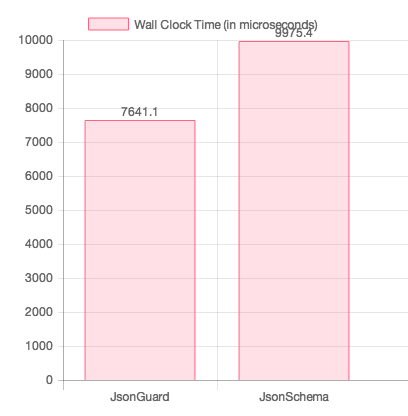
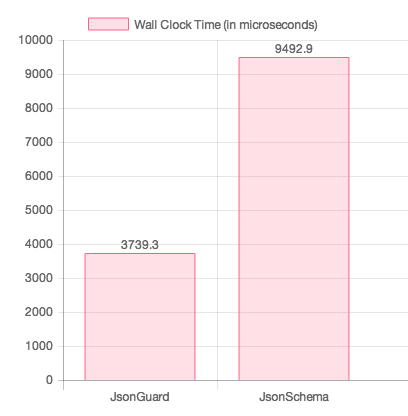
Update reports

Changed region(s): [[0.2059, 0.25, 0.5, 0.625], [0.5588, 0.0625, 0.8824, 0.1562]]

diff --git a/reports/validating-the-meta-schema.md b/reports/validating-the-meta-schema.md
@@ -10,8 +10,8 @@ This test checks the performance of validating the meta schema which defines JSO
 
 | Validator | Wall Clock Time (in microseconds) |
 |-----------|:---------------------------------:|
-| JsonGuard | 14497.3 |
-| JsonSchema | 85108.2 |
+| JsonGuard | 16070.4 |
+| JsonSchema | 80660 |
 
 ## Memory usage
 

diff --git a/reports/validating-composer.md b/reports/validating-composer.md
@@ -10,8 +10,8 @@ This test checks the performance of validating a composer.json file against the 
 
 | Validator | Wall Clock Time (in microseconds) |
 |-----------|:---------------------------------:|
-| JsonGuard | 7641.1 |
-| JsonSchema | 9975.4 |
+| JsonGuard | 3739.3 |
+| JsonSchema | 9492.9 |
 
 ## Memory usage
 
